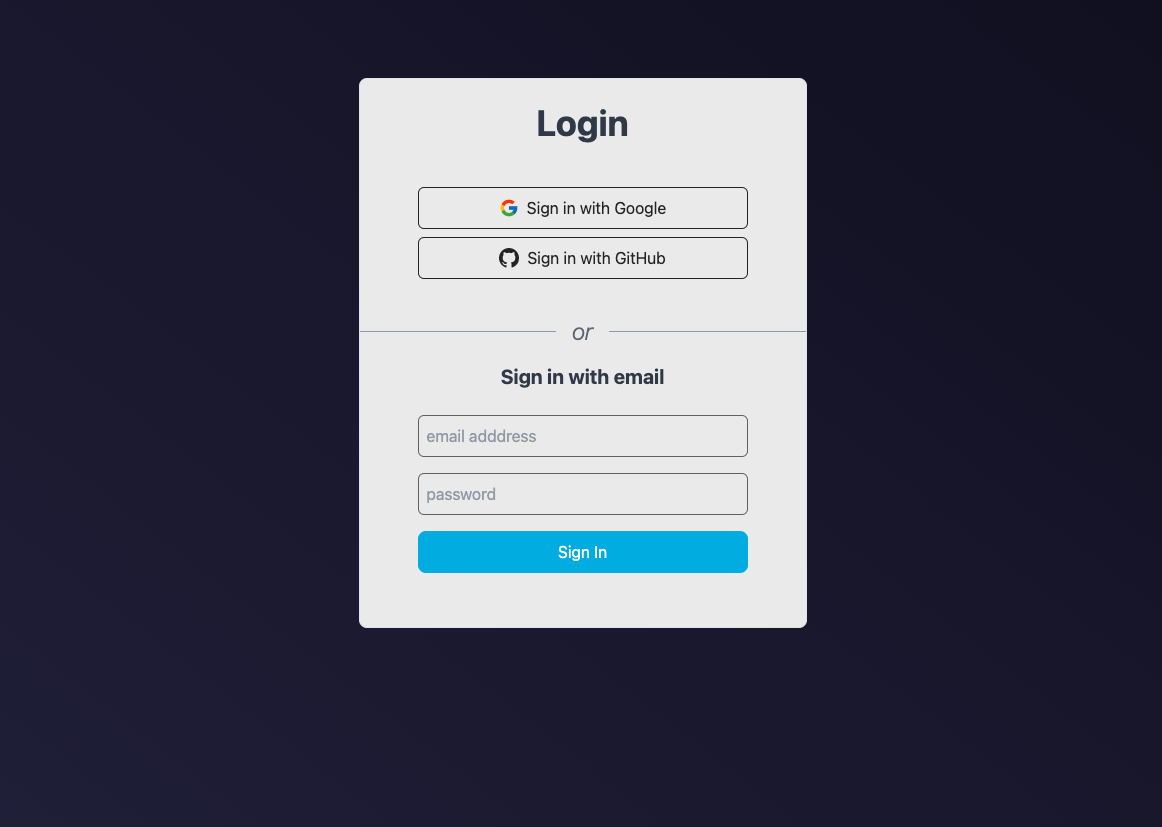
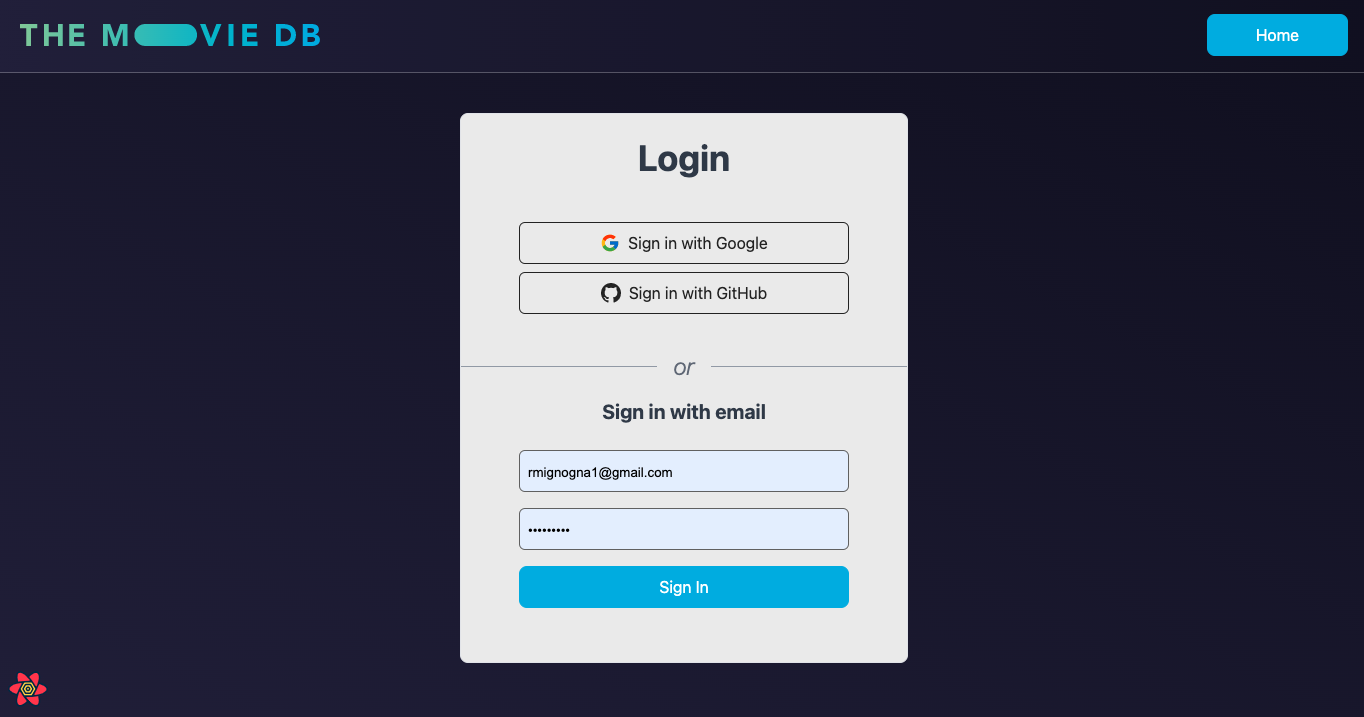
refactor folder structure for header components. Add header to signin page, update screenshots and readme

diff --git a/src/components/HeaderContainer/DesktopNavigation/index.tsx b/src/components/HeaderContainer/DesktopNavigation/index.tsx
@@ -1,0 +1,101 @@
+import { FC, useEffect, useState, useCallback } from "react"
+import { useRouter } from "next/router"
+import { useSession, signOut } from "next-auth/react"
+import { parseCookies } from "nookies"
+import { unsetToken } from "../../../lib/auth"
+
+const DesktopNavigation: FC = () => {
+  const [userIsLoggedIn, setUserIsLoggedIn] = useState(false)
+  const { data: session } = useSession()
+  const router = useRouter()
+  const isOnCreateMoviePage = router.asPath === "/create-movie"
+  const isOnSignInPage = router.asPath === "/auth/signin"
+  const cookies = parseCookies()
+
+  const isLoggedIn = useCallback(() => {
+    if (cookies.jwt) {
+      setUserIsLoggedIn(true)
+    } else {
+      setUserIsLoggedIn(false)
+    }
+  }, [cookies.jwt])
+
+  useEffect(() => {
+    isLoggedIn()
+  }, [isLoggedIn])
+
+  return (
+    <>
+      {(session || userIsLoggedIn) && (
+        <div className="hidden md:flex my-2">
+          <div className="space-x-2">
+            {!isOnCreateMoviePage && (
+              <>
+                <button
+                  onClick={() => {
+                    router.push("/create-movie")
+                  }}
+                  className="px-4 md:px-12 py-2 border border-solid border-[#01b4e4]  hover:bg-[#01b4e4] transition duration-700 ease-in-out rounded-lg cursor-pointer"
+                >
+                  <p>Add Movie</p>
+                </button>
+                <button
+                  onClick={() => {
+                    signOut({
+                      callbackUrl: "/",
+                    })
+                    unsetToken()
+                  }}
+                  className="px-4 md:px-12 py-2 border border-solid border-[#01b4e4] bg-[#01b4e4]  hover:bg-[#0099c3] transition duration-700 ease-in-out rounded-lg cursor-pointer"
+                >
+                  <p>Sign out</p>
+                </button>
+              </>
+            )}
+            {isOnCreateMoviePage && (
+              <>
+                <button
+                  onClick={() => {
+                    router.push("/")
+                  }}
+                  className="px-4 md:px-12 py-2 border border-solid border-[#01b4e4]  hover:bg-[#01b4e4] transition duration-700 ease-in-out rounded-lg cursor-pointer"
+                >
+                  <p>Home</p>
+                </button>
+                <button
+                  onClick={() => {
+                    signOut({
+                      callbackUrl: "/",
+                    })
+                    unsetToken()
+                  }}
+                  className="px-4 md:px-12 py-2 border border-solid border-[#01b4e4] bg-[#01b4e4]  hover:bg-[#0099c3] transition duration-700 ease-in-out rounded-lg cursor-pointer"
+                >
+                  <p>Sign out</p>
+                </button>
+              </>
+            )}
+          </div>
+        </div>
+      )}
+      {!session && !userIsLoggedIn && !isOnSignInPage && (
+        <button
+          onClick={() => router.push("/auth/signin")}
+          className="px-12 py-2 my-2 border border-solid border-[#01b4e4] bg-[#01b4e4]  hover:bg-[#0099c3] transition duration-700 ease-in-out rounded-lg cursor-pointer"
+        >
+          Sign in
+        </button>
+      )}
+      {!session && !userIsLoggedIn && isOnSignInPage && (
+        <button
+          onClick={() => router.push("/")}
+          className="px-12 py-2 my-2 border border-solid border-[#01b4e4] bg-[#01b4e4]  hover:bg-[#0099c3] transition duration-700 ease-in-out rounded-lg cursor-pointer"
+        >
+          Home
+        </button>
+      )}
+    </>
+  )
+}
+
+export default DesktopNavigation

diff --git a/src/pages/auth/signin.tsx b/src/pages/auth/signin.tsx
@@ -7,6 +7,7 @@ import type {
 import { getProviders, signIn } from "next-auth/react"
 import { getServerSession } from "next-auth/next"
 import authOptions from "../api/auth/[...nextauth]"
+import HeaderContainer from "@/components/HeaderContainer"
 import { setToken } from "@/lib/auth"
 import { FcGoogle } from "react-icons/fc"
 import { BsGithub } from "react-icons/bs"
@@ -28,7 +29,7 @@ export default function SignIn<ApiResponse>({
         {
           method: "POST",
           headers: {
-            "Accept": "application/json",
+            Accept: "application/json",
             "Content-Type": "application/json",
           },
           body: JSON.stringify({
@@ -39,7 +40,7 @@ export default function SignIn<ApiResponse>({
       )
       const userData = (await response.json()) as ApiResponse
       setToken(userData)
-      router.push('/')
+      router.push("/")
     } catch (err) {
       throw new Error(`${err}`)
     }
@@ -47,7 +48,10 @@ export default function SignIn<ApiResponse>({
 
   return (
     <>
-      <div className="bg-gradient-to-tr from-[#252242] to-[#0f0d23] h-screen py-20 overflow-y-scroll px-4">
+      <div className="bg-gradient-to-r from-[#252242] to-[#0f0d23] border-b border-[#ffffff42]">
+        <HeaderContainer />
+      </div>
+      <div className="bg-gradient-to-tr from-[#252242] to-[#0f0d23] h-screen py-10 overflow-y-scroll px-4">
         <div className="max-w-md my-0 mx-auto">
           <div className="flex flex-col items-center pt-6 border h-[650px] md:h-[550px] rounded-lg bg-[#ededed]">
             <div>
@@ -90,19 +94,23 @@ export default function SignIn<ApiResponse>({
                   placeholder="email adddress"
                   className="mt-4 px-2 py-2 w-full max-w-[330px] text-gray-700 bg-[#ededed] border rounded-md border-[#6b6b6b] focus:outline-[#350ef7]"
                   type="text"
-                  onChange={(e) => setData({
-                    ...data,
-                    identifier: e.target.value,
-                  })}
+                  onChange={(e) =>
+                    setData({
+                      ...data,
+                      identifier: e.target.value,
+                    })
+                  }
                 />
                 <input
                   placeholder="password"
                   className="mt-4 px-2 py-2 w-full max-w-[330px] text-gray-700 bg-[#ededed] border rounded-md border-[#6b6b6b] focus:outline-[#350ef7] relative"
                   type="password"
-                  onChange={(e) => setData({
-                    ...data,
-                    password: e.target.value,
-                  })}
+                  onChange={(e) =>
+                    setData({
+                      ...data,
+                      password: e.target.value,
+                    })
+                  }
                 />
                 <button className="px-4 md:px-12 py-2 mt-4 w-full max-w-[330px] text-white border border-solid border-[#01b4e4] bg-[#01b4e4]  hover:bg-[#0099c3] transition duration-700 ease-in-out rounded-lg cursor-pointer">
                   Sign In
@@ -122,7 +130,6 @@ export async function getServerSideProps(context: GetServerSidePropsContext) {
   // Note: Make sure not to redirect to the same page
   // To avoid an infinite loop!
   if (session) {
-
     return { redirect: { destination: "/" } }
   }
 

diff --git a/src/components/HeaderContainer/DesktopHeader/index.tsx b/src/components/HeaderContainer/DesktopHeader/index.tsx
@@ -1,0 +1,22 @@
+import Image from "next/image"
+import DesktopNavigation from "../DesktopNavigation"
+
+const DesktopHeader = () => {
+  return (
+    <>
+      <div className="flex justify-between items-center py-2 text-white px-6">
+        <div className="hidden md:flex">
+          <Image
+            src="https://www.themoviedb.org/assets/2/v4/logos/v2/blue_long_2-9665a76b1ae401a510ec1e0ca40ddcb3b0cfe45f1d51b77a308fea0845885648.svg"
+            alt="tmdb logo"
+            width={300}
+            height={50}
+          />
+        </div>
+        <DesktopNavigation />
+      </div>
+    </>
+  )
+}
+
+export default DesktopHeader

diff --git a/src/components/MovieDetails.tsx b/src/components/MovieDetails.tsx
@@ -10,7 +10,7 @@ import { AiOutlineHome } from "react-icons/ai"
 
 const MovieDetails = ({ movie }: MovieApiResponse) => {
   const [showMovieForm, setShowMovieForm] = useState(false)
-  const { data: session } = useSession()
+  const { data: session }: any = useSession()
   const router = useRouter()
 
   const handleEditMovie = () => {

diff --git a/src/components/HeaderContainer/MobileHeader/index.tsx b/src/components/HeaderContainer/MobileHeader/index.tsx
@@ -1,6 +1,6 @@
 import { FC, useState } from "react"
 import Image from "next/image"
-import MobileNavigation from "./MobileNavigation"
+import MobileNavigation from "../MobileNavigation"
 import { GiHamburgerMenu } from "react-icons/gi"
 
 const MobileHeader: FC = () => {

diff --git a/README.md b/README.md
@@ -28,7 +28,7 @@ Current API Functionality includes:
 - create one
 - update one
 
-For Authentication, I used Next Auth and implemented Social Login for Google and GitHub account users.
+For Authentication, I used Next Auth and implemented Email Authentication, plus Social Login for Google and GitHub account users. The login feature obtains a JWT Token from Strapi and stores this in either Next Auth Session for Social login or in Cookies for Email login.
 
 The backend or Strapi API has been deployed to Heroku with a Postgres Database. The frontend has been deployed to Vercel.
 
@@ -49,7 +49,9 @@ The backend or Strapi API has been deployed to Heroku with a Postgres Database. 
 
 # **Next Steps** 🎯
 
-- The plan is to have full CRUD functionality, so I will be adding "Delete a movie" functionality which will only be available to Authorized and Authenitcated users. I will add JWT token to the Headers in the fetch and modify the Strapi API to receive requests in such way.
+- Reviews Section displaying user reviews.
+
+- Add a Review feature available for authenticated users.
 
 - Refactor to use Next JS 13 Server / Client Components.
 
